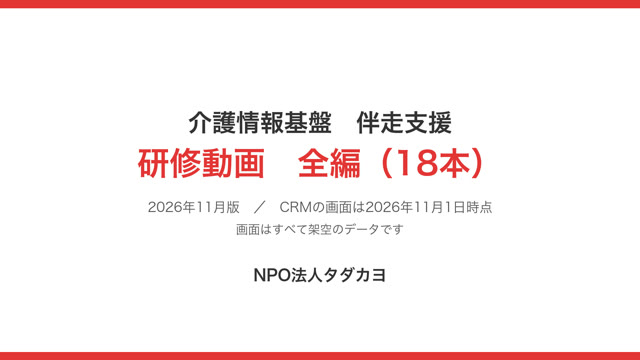
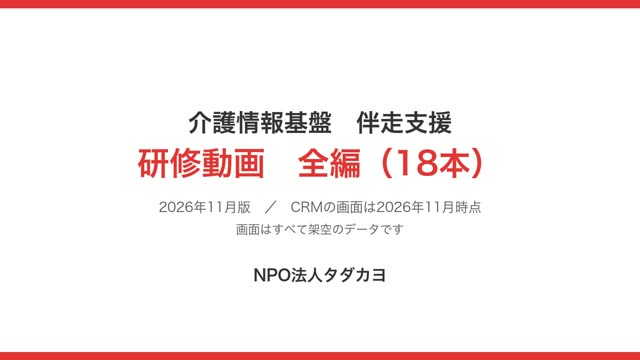
feat(動画): 全編の動画を倉庫の場面入りの版に差し替え（新URL・1時間53分）
- 単元3 v2.1・単元6 v1.4 を取り込んで全編（18本）を組み直し、YouTube に限定公開で上げ直した（旧URLは【旧版】の案内つきで残す）
- 動画マニュアル・育成コースの「全編はこちら」を新しいURL・長さ・表紙に差し替え

diff --git a/admin/learning.html b/admin/learning.html
@@ -127,10 +127,10 @@
       <div class="doc" id="doc" style="display:none">
         <p class="page-intro">新しく伴走支援に入る方が、独り立ちまでの7つのステップを順に進める画面です。STEP1〜5 はひとりで進められます（動画を最後まで見て、確認テストに合格）。STEP1〜5 が済むと「OJTに入れます」になり、STEP7 の OJT でトレーナーが評価シートをつけます。</p>
 
-        <a class="zenpen" href="https://youtu.be/lw3mbKDGHMM" target="_blank" rel="noopener">
+        <a class="zenpen" href="https://youtu.be/D8S1Nm_VWHE" target="_blank" rel="noopener">
           <img src="/images/videos/zenpen-2026-11.jpg" alt="介護情報基盤 伴走支援 研修動画 全編（18本）の表紙" width="640" height="360" loading="lazy">
           <div><div class="k"><i class="ti ti-brand-youtube" aria-hidden="true"></i> 全編を通して見るならこちら（YouTube・限定公開）</div>
-            <div class="t">研修動画 全編（18本・1時間51分・2026年11月版）</div>
+            <div class="t">研修動画 全編（18本・1時間53分・2026年11月版）</div>
             <div class="d">育成コース・ガイドブック・CRMの使い方を1本にまとめました。目次から必要なところだけ見られます。移動の時間などに、速度を上げて見ても大丈夫です（運転中や歩きながらは見ないでください）。</div></div>
         </a>
         <div id="solo" class="ls-solo" hidden></div>

diff --git a/admin/videos.html b/admin/videos.html
@@ -80,10 +80,10 @@
       <div id="gate" class="loading"><i class="ti ti-loader-2 ti-spin" aria-hidden="true"></i> 認証確認中...</div>
 
       <div class="doc" id="doc" style="display:none">
-        <a class="zenpen" href="https://youtu.be/lw3mbKDGHMM" target="_blank" rel="noopener">
+        <a class="zenpen" href="https://youtu.be/D8S1Nm_VWHE" target="_blank" rel="noopener">
           <img src="/images/videos/zenpen-2026-11.jpg" alt="介護情報基盤 伴走支援 研修動画 全編（18本）の表紙" width="640" height="360" loading="lazy">
           <div><div class="k"><i class="ti ti-brand-youtube" aria-hidden="true"></i> 全編を通して見るならこちら（YouTube・限定公開）</div>
-            <div class="t">研修動画 全編（18本・1時間51分・2026年11月版）</div>
+            <div class="t">研修動画 全編（18本・1時間53分・2026年11月版）</div>
             <div class="d">育成コース・ガイドブック・CRMの使い方を1本にまとめました。目次から必要なところだけ見られます。移動の時間などに、速度を上げて見ても大丈夫です（運転中や歩きながらは見ないでください）。</div></div>
         </a>
         <section class="vpaths" aria-labelledby="vpathsTitle">
